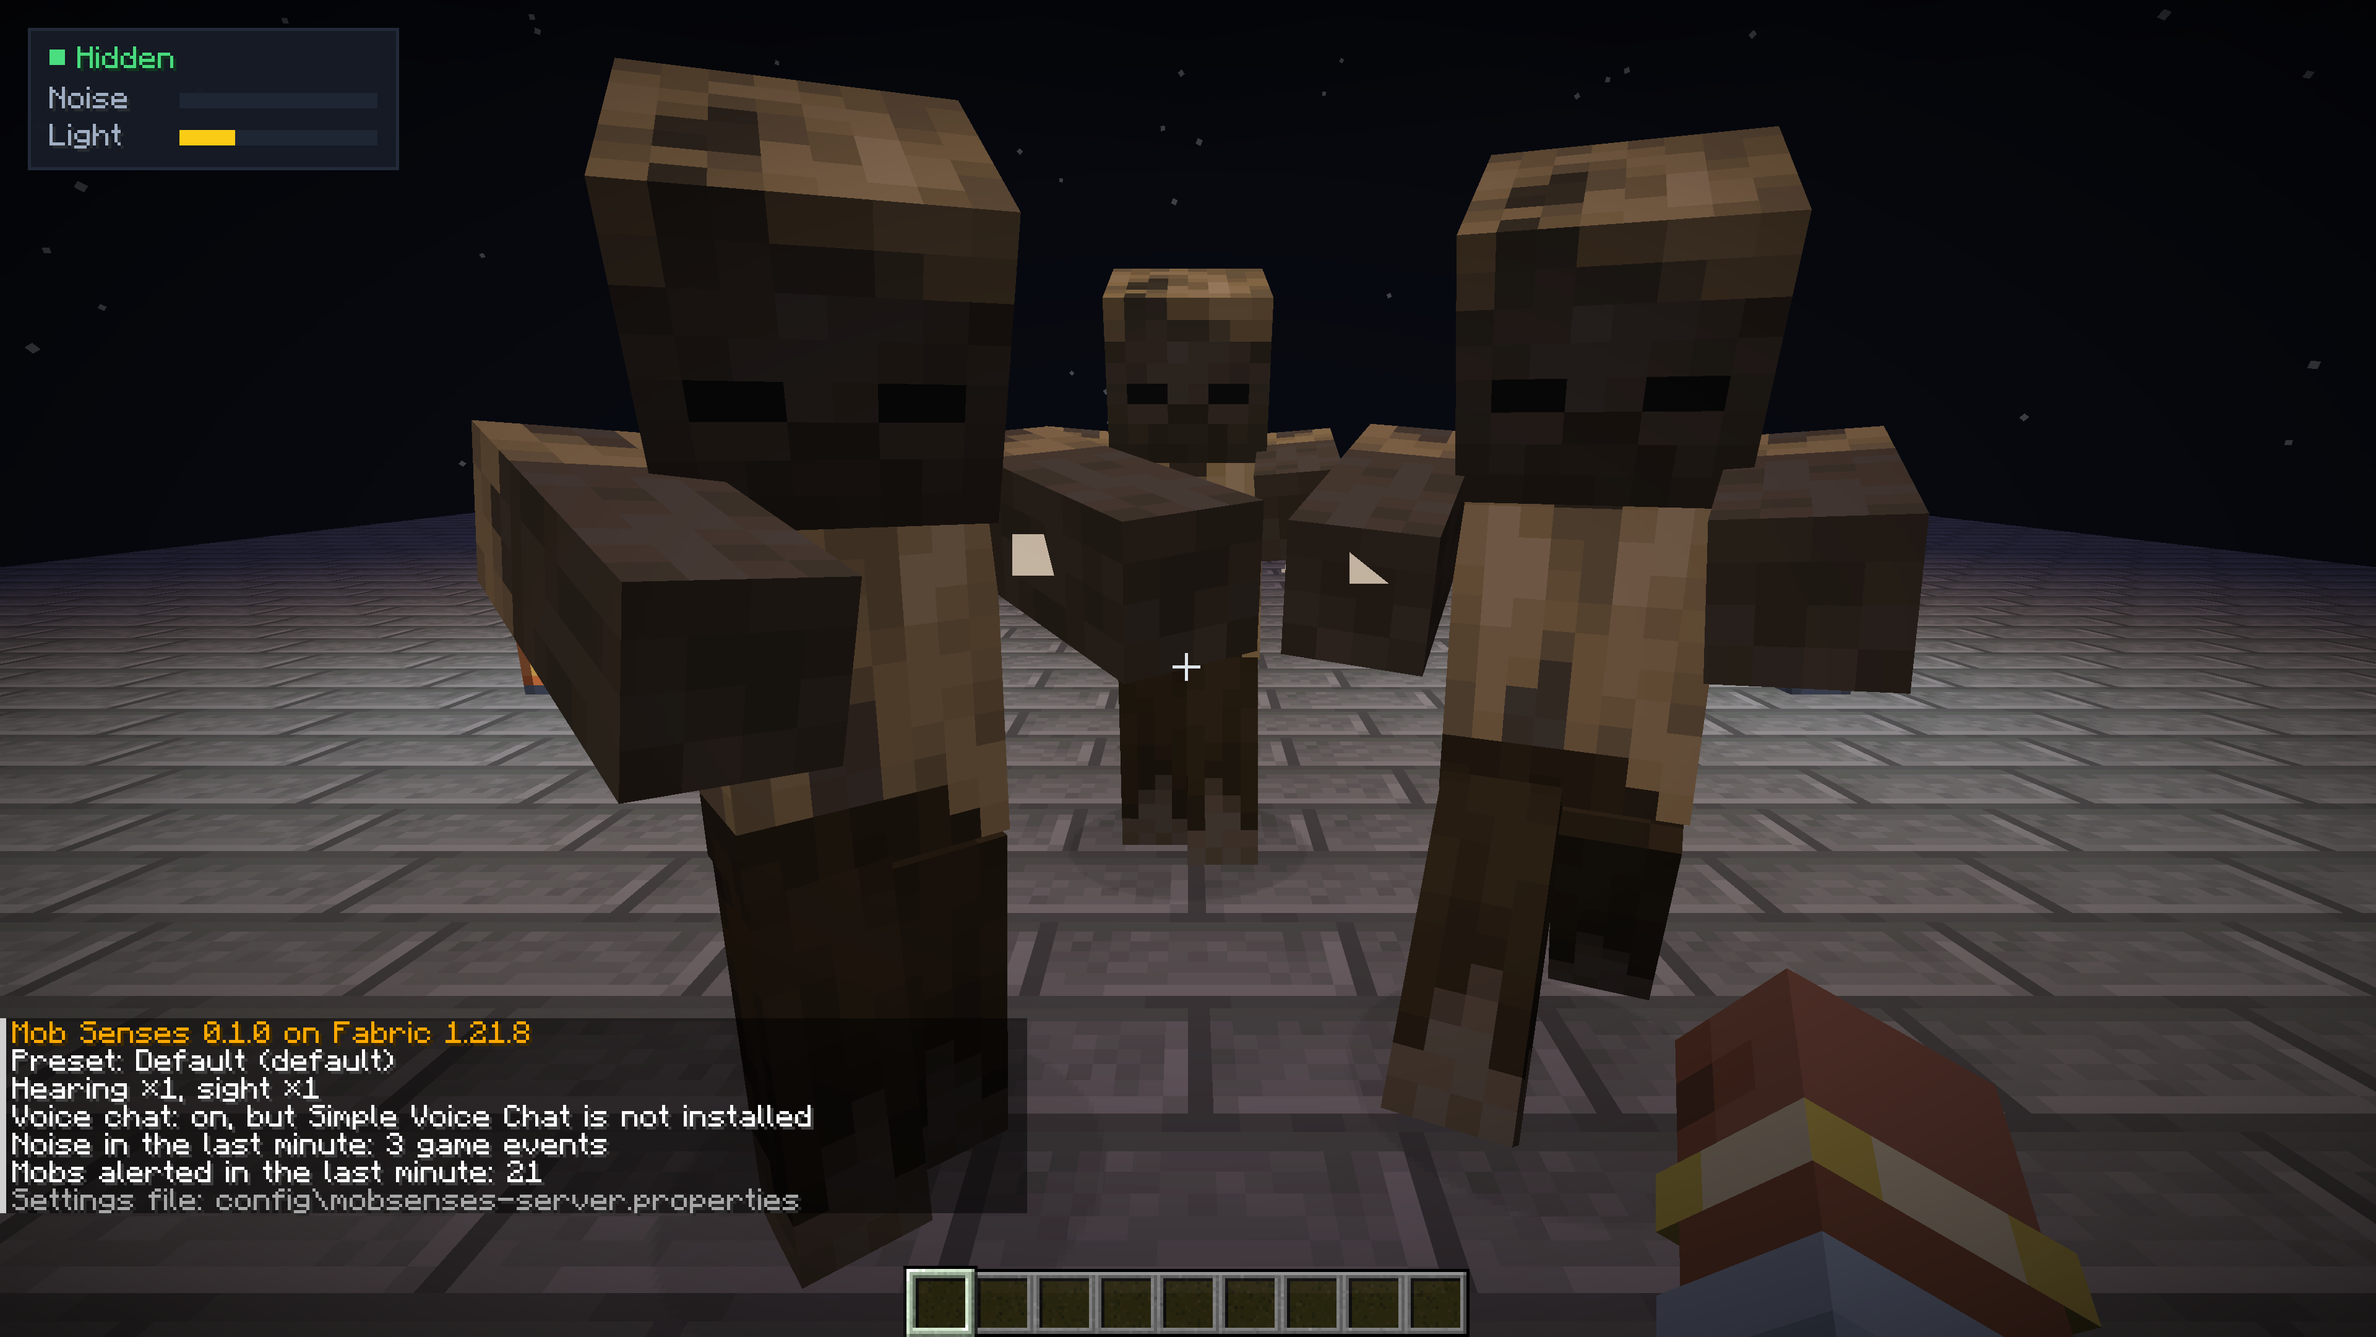
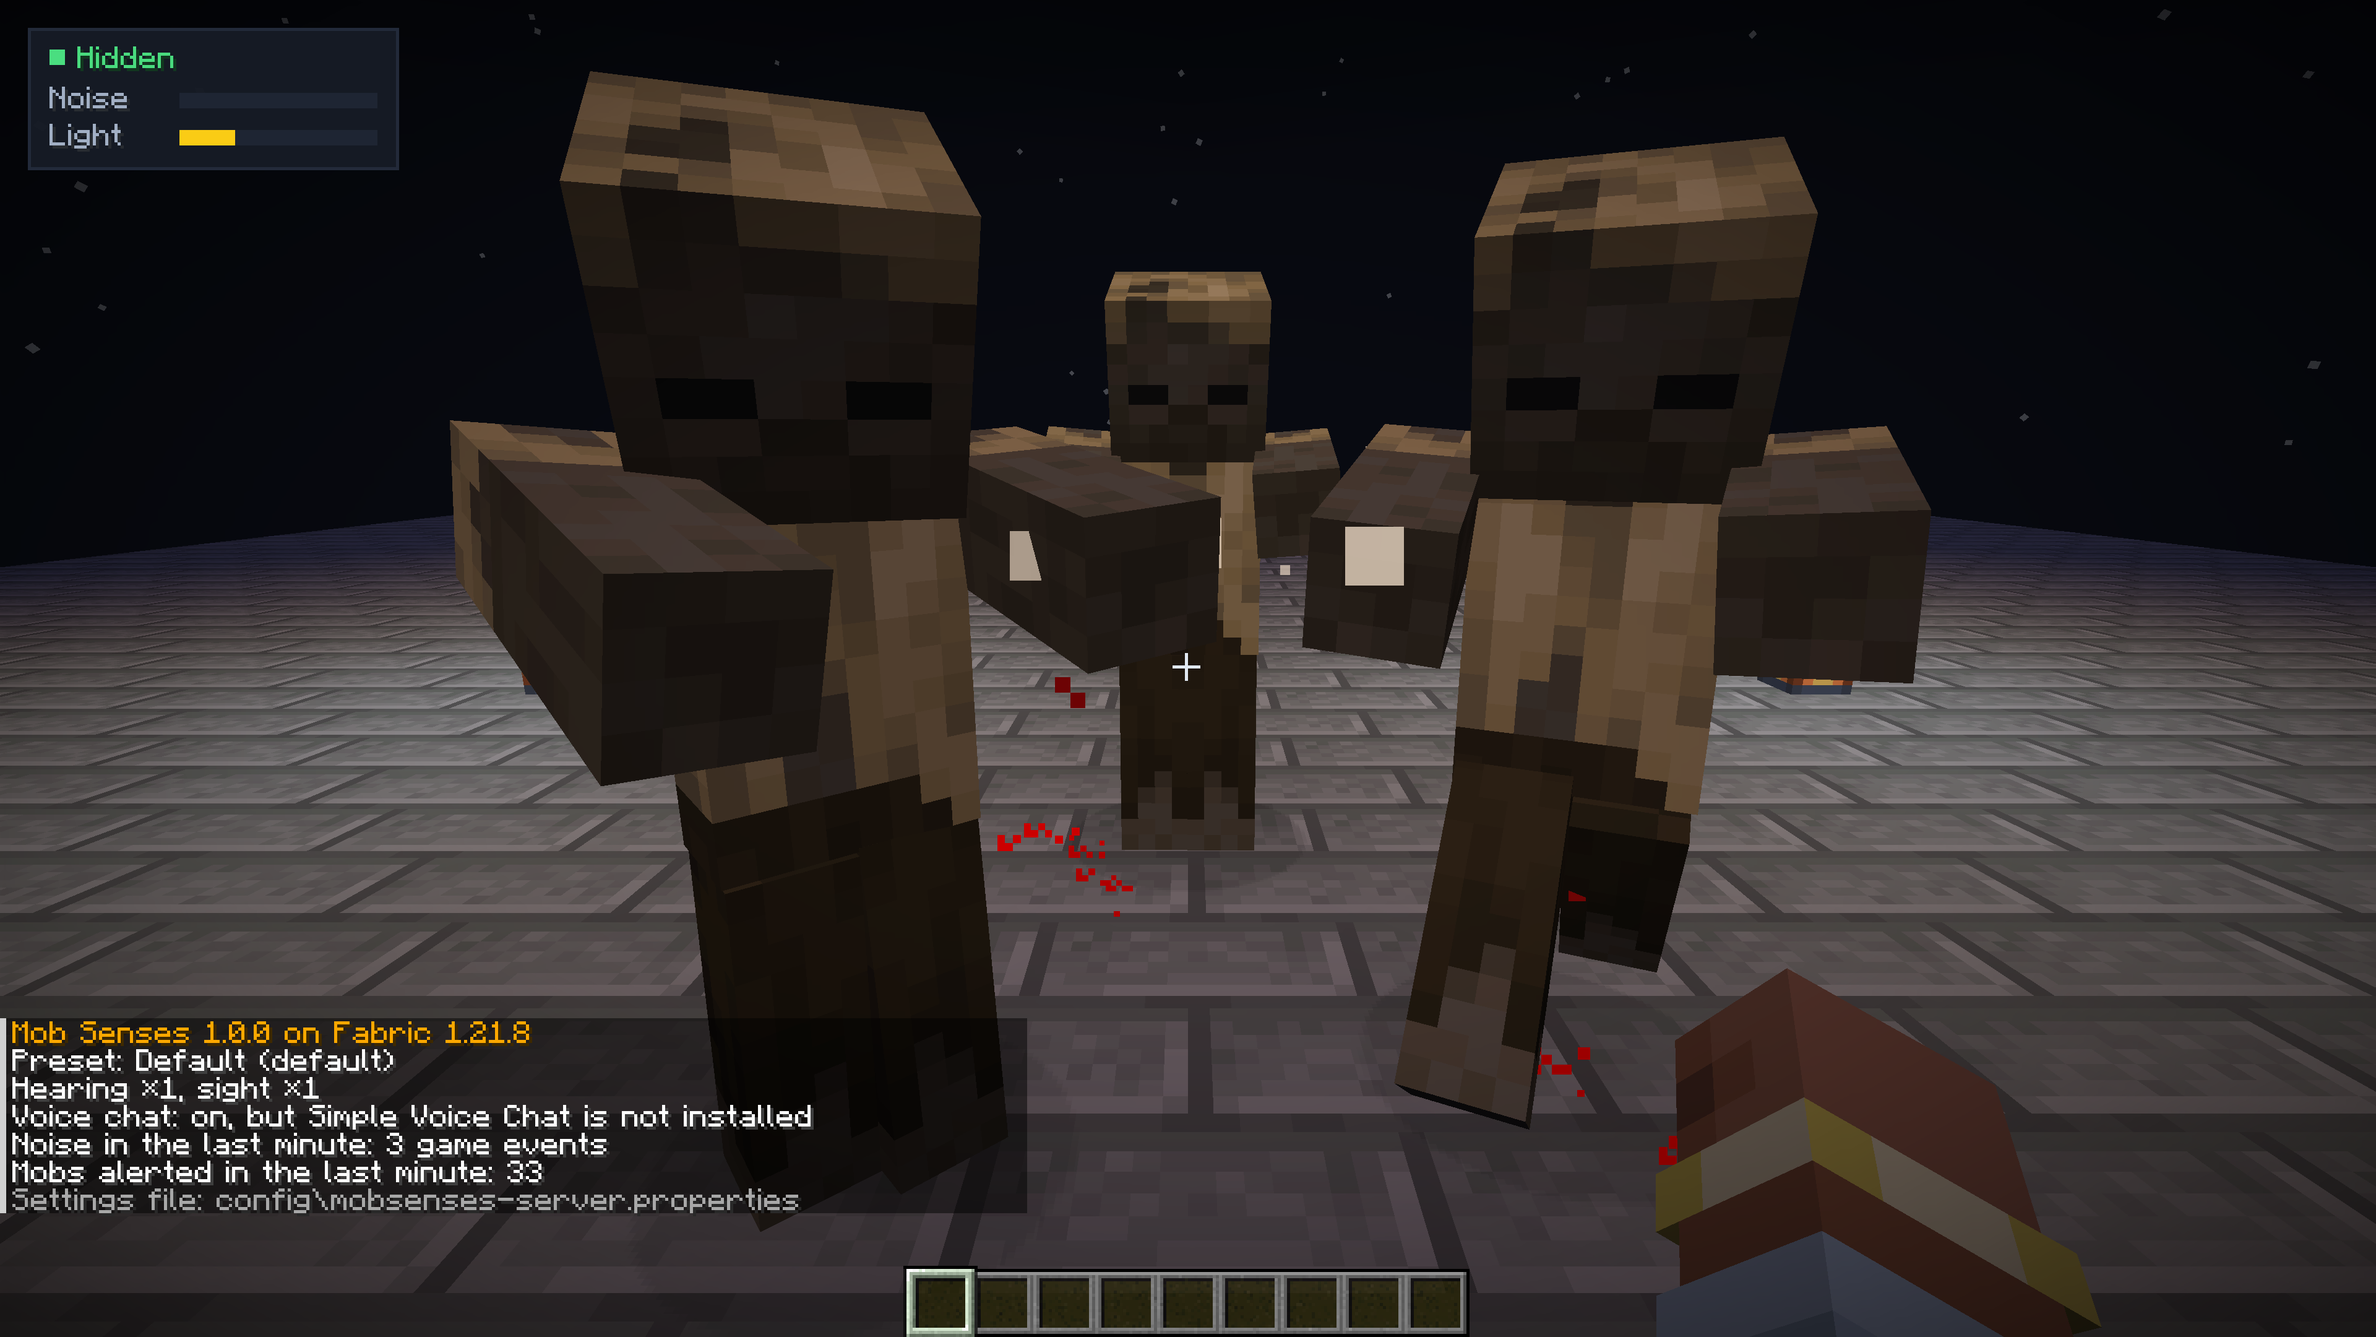
Add visible crimson blood trail particles for wounded players

diff --git a/shared/mc-all/src/main/java/com/kasper/mobsenses/server/ParticleSender.java b/shared/mc-all/src/main/java/com/kasper/mobsenses/server/ParticleSender.java
@@ -1,14 +1,18 @@
 package com.kasper.mobsenses.server;
 
+import net.minecraft.core.particles.BlockParticleOption;
+import net.minecraft.core.particles.DustParticleOptions;
 import net.minecraft.core.particles.ParticleOptions;
 import net.minecraft.core.particles.ParticleTypes;
 import net.minecraft.server.level.ServerLevel;
 import net.minecraft.server.level.ServerPlayer;
+import net.minecraft.world.level.block.Blocks;
 
+import java.lang.reflect.Constructor;
 import java.lang.reflect.Method;
 
 /**
- * Sends debug particles to admin players when {@code /mobsenses debug} is active.
+ * Sends blood-trail particles for wounded players and debug traces when {@code /mobsenses debug} is active.
  *
  * <p>{@code ServerLevel.sendParticles(ServerPlayer, ...)} gained a second boolean parameter in
  * Minecraft 1.21.4; resolving it reflectively lets one class serve every version band.
@@ -17,6 +21,7 @@ public final class ParticleSender {
 
     private static final Method SEND_11;
     private static final Method SEND_12;
+    private static final ParticleOptions BLOOD_MIST;
 
     static {
         Method m11 = null;
@@ -40,9 +45,64 @@ public final class ParticleSender {
         }
         SEND_11 = m11;
         SEND_12 = m12;
+        BLOOD_MIST = resolveBloodMist();
     }
 
     private ParticleSender() {
+    }
+
+    private static ParticleOptions resolveBloodMist() {
+        try {
+            // Minecraft 1.21.2+: DustParticleOptions(int rgb, float scale)
+            Constructor<DustParticleOptions> cInt = DustParticleOptions.class.getConstructor(int.class, float.class);
+            return cInt.newInstance(0xB80808, 1.35f);
+        } catch (Throwable ignored) {
+        }
+        try {
+            // Minecraft 1.16.5: DustParticleOptions(float r, float g, float b, float scale)
+            Constructor<DustParticleOptions> cFloat = DustParticleOptions.class.getConstructor(
+                    float.class, float.class, float.class, float.class);
+            return cFloat.newInstance(0.72f, 0.03f, 0.03f, 1.35f);
+        } catch (Throwable ignored) {
+        }
+        try {
+            // Minecraft 1.17 – 1.21.1: DustParticleOptions(Vector3f color, float scale)
+            for (Constructor<?> c : DustParticleOptions.class.getConstructors()) {
+                Class<?>[] p = c.getParameterTypes();
+                if (p.length == 2 && p[1] == float.class && p[0] != int.class) {
+                    Constructor<?> vecCtor = p[0].getConstructor(float.class, float.class, float.class);
+                    Object vec = vecCtor.newInstance(0.72f, 0.03f, 0.03f);
+                    return (ParticleOptions) c.newInstance(vec, 1.35f);
+                }
+            }
+        } catch (Throwable ignored) {
+        }
+        return null;
+    }
+
+    private static ParticleOptions bloodSplatter() {
+        return new BlockParticleOption(ParticleTypes.BLOCK, Blocks.REDSTONE_BLOCK.defaultBlockState());
+    }
+
+    private static ParticleOptions bloodDrop() {
+        return new BlockParticleOption(ParticleTypes.FALLING_DUST, Blocks.REDSTONE_BLOCK.defaultBlockState());
+    }
+
+    /**
+     * Spawns visible crimson blood droplets and floor splatters at a wounded player's scent crumb.
+     */
+    public static void sendBloodCrumb(ServerLevel level, double x, double y, double z) {
+        ParticleOptions splatter = bloodSplatter();
+        ParticleOptions drop = bloodDrop();
+        ParticleOptions mist = BLOOD_MIST != null ? BLOOD_MIST : drop;
+        for (ServerPlayer player : level.players()) {
+            if (player.distanceToSqr(x, y, z) > 48.0 * 48.0) {
+                continue;
+            }
+            send(level, player, splatter, x, y + 0.08, z, 6, 0.22, 0.04, 0.22, 0.02);
+            send(level, player, drop, x, y + 0.45, z, 3, 0.18, 0.12, 0.18, 0.0);
+            send(level, player, mist, x, y + 0.12, z, 4, 0.20, 0.05, 0.20, 0.0);
+        }
     }
 
     public static void sendHearingTrace(
@@ -60,10 +120,13 @@ public final class ParticleSender {
             ServerLevel level,
             double sx, double sy, double sz,
             double ex, double ey, double ez) {
+        ParticleOptions splatter = bloodSplatter();
+        ParticleOptions mist = BLOOD_MIST != null ? BLOOD_MIST : bloodDrop();
         for (ServerPlayer player : level.players()) {
-            send(level, player, ParticleTypes.DAMAGE_INDICATOR, sx, sy + 0.4, sz, 1, 0.1, 0.1, 0.1, 0.0);
+            send(level, player, splatter, sx, sy + 0.10, sz, 8, 0.25, 0.05, 0.25, 0.02);
+            send(level, player, mist, sx, sy + 0.15, sz, 5, 0.22, 0.06, 0.22, 0.0);
             send(level, player, ParticleTypes.ANGRY_VILLAGER, ex, ey + 0.45, ez, 1, 0.1, 0.1, 0.1, 0.0);
-            sendLine(level, player, ParticleTypes.CRIT, sx, sy + 0.3, sz, ex, ey, ez, 5);
+            sendLine(level, player, mist, sx, sy + 0.18, sz, ex, ey - 0.3, ez, 7);
         }
     }
 

diff --git a/bukkit/src/main/java/com/kasper/mobsenses/bukkit/BukkitSenses.java b/bukkit/src/main/java/com/kasper/mobsenses/bukkit/BukkitSenses.java
@@ -191,6 +191,11 @@ public final class BukkitSenses {
                 worldName, player.getUniqueId(), px, py, pz,
                 player.getHealth(), maxHealth, preset, now);
         if (scentRange > 0.0) {
+            for (ScentModel.Crumb c : MobSenses.scent().activeCrumbs(worldName, now)) {
+                if (player.getUniqueId().equals(c.playerId())) {
+                    sendBloodCrumb(world, c.x(), c.y(), c.z());
+                }
+            }
             Collection<Entity> nearby = world.getNearbyEntities(ploc, scentRange, 6.0, scentRange);
             int count = 0;
             for (Entity entity : nearby) {
@@ -209,7 +214,7 @@ public final class BukkitSenses {
                     if (investigate(mob, target, 1.10)) {
                         MobSenses.alerted().record(now);
                         if (MobSenses.debug()) {
-                            sendDebugTrace(world, target, mob.getEyeLocation());
+                            sendScentDebugTrace(world, target, mob.getEyeLocation());
                         }
                         if (++count >= 6) {
                             break;
@@ -353,6 +358,63 @@ public final class BukkitSenses {
         } catch (Throwable ignored) {
         }
         return player.getMaxHealth();
+    }
+
+    private static Particle findParticle(String... names) {
+        for (String name : names) {
+            try {
+                return Particle.valueOf(name);
+            } catch (IllegalArgumentException ignored) {
+            }
+        }
+        return null;
+    }
+
+    private static void sendBloodCrumb(World world, double x, double y, double z) {
+        try {
+            Particle dust = findParticle("DUST", "REDSTONE");
+            Particle block = findParticle("BLOCK", "BLOCK_CRACK");
+            Particle falling = findParticle("FALLING_DUST");
+            org.bukkit.block.data.BlockData redstoneBlock = org.bukkit.Material.REDSTONE_BLOCK.createBlockData();
+            Particle.DustOptions crimson = new Particle.DustOptions(org.bukkit.Color.fromRGB(184, 8, 8), 1.35f);
+            if (block != null) {
+                world.spawnParticle(block, x, y + 0.08, z, 6, 0.22, 0.04, 0.22, 0.02, redstoneBlock);
+            }
+            if (falling != null) {
+                world.spawnParticle(falling, x, y + 0.45, z, 3, 0.18, 0.12, 0.18, 0.0, redstoneBlock);
+            }
+            if (dust != null) {
+                world.spawnParticle(dust, x, y + 0.12, z, 4, 0.20, 0.05, 0.20, 0.0, crimson);
+            }
+        } catch (Throwable ignored) {
+        }
+    }
+
+    private static void sendScentDebugTrace(World world, Location from, Location to) {
+        Particle dust = findParticle("DUST", "REDSTONE");
+        Particle angry = findParticle("ANGRY_VILLAGER", "VILLAGER_ANGRY");
+        Particle.DustOptions crimson = new Particle.DustOptions(org.bukkit.Color.fromRGB(184, 8, 8), 1.35f);
+        for (Player viewer : world.getPlayers()) {
+            if (!viewer.isOp() && !viewer.hasPermission("mobsenses.admin")) {
+                continue;
+            }
+            try {
+                if (angry != null) {
+                    viewer.spawnParticle(angry, to.getX(), to.getY() + 0.45, to.getZ(), 1, 0.1, 0.1, 0.1, 0.0);
+                }
+                if (dust != null) {
+                    int steps = 7;
+                    for (int i = 1; i < steps; i++) {
+                        double t = (double) i / steps;
+                        double px = from.getX() + (to.getX() - from.getX()) * t;
+                        double py = from.getY() + 0.18 + (to.getY() - 0.3 - from.getY()) * t;
+                        double pz = from.getZ() + (to.getZ() - from.getZ()) * t;
+                        viewer.spawnParticle(dust, px, py, pz, 1, 0.0, 0.0, 0.0, 0.0, crimson);
+                    }
+                }
+            } catch (Throwable ignored) {
+            }
+        }
     }
 
     private static void sendDebugTrace(World world, Location from, Location to) {

diff --git a/versions/fabric/1.21/src/gametest/java/com/kasper/mobsenses/gametest/TestScreens.java b/versions/fabric/1.21/src/gametest/java/com/kasper/mobsenses/gametest/TestScreens.java
@@ -138,11 +138,15 @@ final class TestScreens {
         }
         server.execute(() -> {
             ServerLevel level = server.overworld();
+            String worldId = Worlds.id(level);
             for (ServerPlayer player : level.players()) {
                 player.setItemInHand(InteractionHand.MAIN_HAND, new ItemStack(Items.TORCH));
                 player.setHealth(6.0f);
                 MobSenses.voice().onVoiceFrame(player.getUUID(), voiceFrame, false, now);
-                ServerHearing.tickPlayerSightAndScent(level, Worlds.id(level), player, Preset.DEFAULT, now);
+                MobSenses.scent().recordPlayer(worldId, player.getUUID(), -0.7, 121.0, -3.4, 6.0, 20.0, Preset.DEFAULT, now - 6000L);
+                MobSenses.scent().recordPlayer(worldId, player.getUUID(), 0.9, 121.0, -2.1, 6.0, 20.0, Preset.DEFAULT, now - 3000L);
+                MobSenses.scent().recordPlayer(worldId, player.getUUID(), 0.2, 121.0, -0.7, 6.0, 20.0, Preset.DEFAULT, now - 1000L);
+                ServerHearing.tickPlayerSightAndScent(level, worldId, player, Preset.DEFAULT, now);
             }
         });
     }
@@ -155,9 +159,20 @@ final class TestScreens {
         if (client.player != null) {
             client.player.hurtTime = 0;
         }
+        MinecraftServer server = client.getSingleplayerServer();
+        if (server != null) {
+            server.execute(() -> {
+                ServerLevel level = server.overworld();
+                String worldId = Worlds.id(level);
+                for (ServerPlayer player : level.players()) {
+                    ServerHearing.tickPlayerSightAndScent(level, worldId, player, Preset.DEFAULT, now);
+                }
+            });
+        }
     }
 
     static void restorePlayerState(Minecraft client) {
+        MobSenses.scent().clear();
         if (client.player != null) {
             client.player.setHealth(20.0f);
             client.player.hurtTime = 0;

diff --git a/versions/fabric/26/src/gametest/java/com/kasper/mobsenses/gametest/TestScreens.java b/versions/fabric/26/src/gametest/java/com/kasper/mobsenses/gametest/TestScreens.java
@@ -154,11 +154,15 @@ final class TestScreens {
         }
         server.execute(() -> {
             ServerLevel level = server.overworld();
+            String worldId = Worlds.id(level);
             for (ServerPlayer player : level.players()) {
                 player.setItemInHand(InteractionHand.MAIN_HAND, new ItemStack(Items.TORCH));
                 player.setHealth(6.0f);
                 MobSenses.voice().onVoiceFrame(player.getUUID(), voiceFrame, false, now);
-                ServerHearing.tickPlayerSightAndScent(level, Worlds.id(level), player, Preset.DEFAULT, now);
+                MobSenses.scent().recordPlayer(worldId, player.getUUID(), -0.7, 121.0, -3.4, 6.0, 20.0, Preset.DEFAULT, now - 6000L);
+                MobSenses.scent().recordPlayer(worldId, player.getUUID(), 0.9, 121.0, -2.1, 6.0, 20.0, Preset.DEFAULT, now - 3000L);
+                MobSenses.scent().recordPlayer(worldId, player.getUUID(), 0.2, 121.0, -0.7, 6.0, 20.0, Preset.DEFAULT, now - 1000L);
+                ServerHearing.tickPlayerSightAndScent(level, worldId, player, Preset.DEFAULT, now);
             }
         });
     }
@@ -171,9 +175,20 @@ final class TestScreens {
         if (client.player != null) {
             client.player.hurtTime = 0;
         }
+        MinecraftServer server = client.getSingleplayerServer();
+        if (server != null) {
+            server.execute(() -> {
+                ServerLevel level = server.overworld();
+                String worldId = Worlds.id(level);
+                for (ServerPlayer player : level.players()) {
+                    ServerHearing.tickPlayerSightAndScent(level, worldId, player, Preset.DEFAULT, now);
+                }
+            });
+        }
     }
 
     static void restorePlayerState(Minecraft client) {
+        MobSenses.scent().clear();
         if (client.player != null) {
             client.player.setHealth(20.0f);
             client.player.hurtTime = 0;

diff --git a/common/src/main/java/com/kasper/mobsenses/ScentModel.java b/common/src/main/java/com/kasper/mobsenses/ScentModel.java
@@ -168,6 +168,23 @@ public final class ScentModel {
         return best;
     }
 
+    /**
+     * Returns a snapshot of all non-expired blood-scent crumbs currently active in {@code world}.
+     */
+    public List<Crumb> activeCrumbs(String world, long nowMs) {
+        if (world == null) {
+            return java.util.Collections.emptyList();
+        }
+        List<Crumb> crumbs = worldTrails.get(world);
+        if (crumbs == null) {
+            return java.util.Collections.emptyList();
+        }
+        synchronized (crumbs) {
+            pruneExpired(crumbs, nowMs);
+            return new ArrayList<>(crumbs);
+        }
+    }
+
     private static void pruneExpired(List<Crumb> crumbs, long nowMs) {
         Iterator<Crumb> it = crumbs.iterator();
         while (it.hasNext()) {

diff --git a/shared/mc-all/src/main/java/com/kasper/mobsenses/server/ServerHearing.java b/shared/mc-all/src/main/java/com/kasper/mobsenses/server/ServerHearing.java
@@ -207,6 +207,11 @@ public final class ServerHearing {
                 worldId, player.getUUID(), px, py, pz,
                 player.getHealth(), player.getMaxHealth(), preset, now);
         if (scentRange > 0.0) {
+            for (ScentModel.Crumb c : MobSenses.scent().activeCrumbs(worldId, now)) {
+                if (player.getUUID().equals(c.playerId())) {
+                    ParticleSender.sendBloodCrumb(level, c.x(), c.y(), c.z());
+                }
+            }
             AABB scentBox = new AABB(
                     px - scentRange, py - 6.0, pz - scentRange,
                     px + scentRange, py + 6.0, pz + scentRange);
